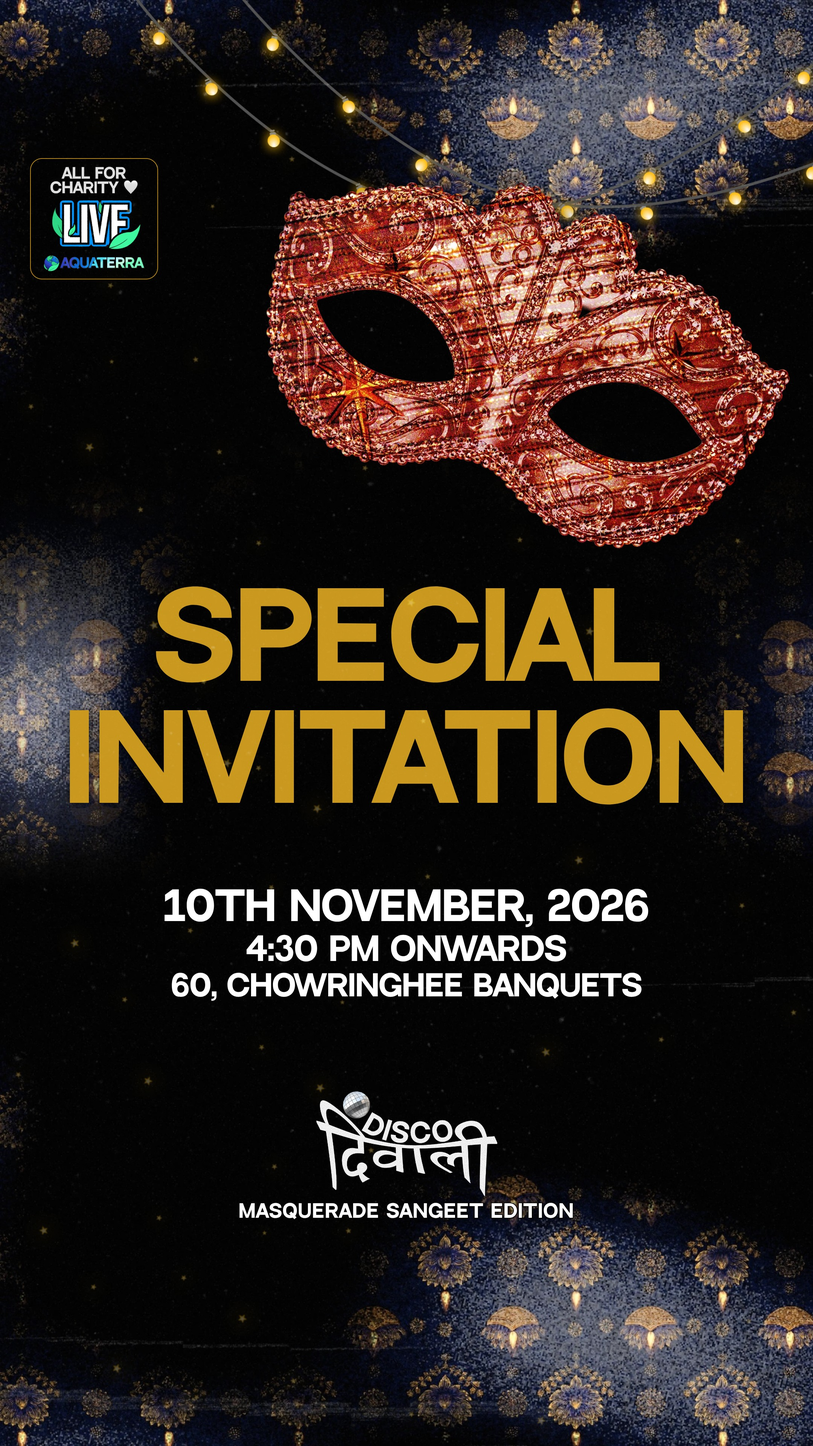
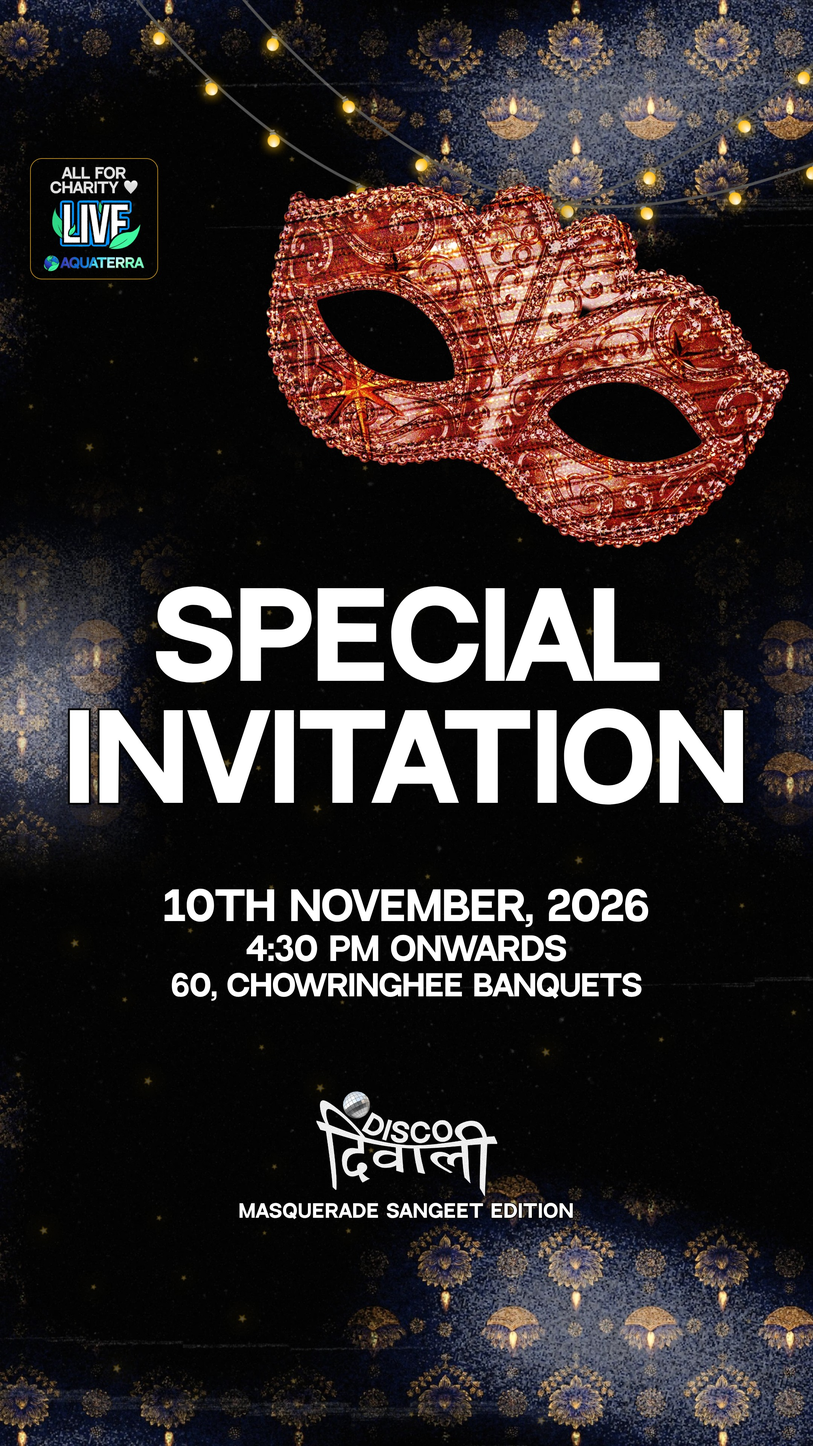
Special invitation poster v10: SPECIAL INVITATION in white
Claude-Session: https://claude.ai/code/session_01Hjb3YdETYzUX9KQBuy3LJ5

Changed region(s): [[0.062, 0.4062, 0.9306, 0.5625]]

diff --git a/scratchpad/dd_invite2.py b/scratchpad/dd_invite2.py
@@ -1,5 +1,5 @@
 """DISCO DIWALI "SPECIAL INVITATION" v2 (user, 2026-11-07: 'SPECIAL INVITATION and Rs.550 highlighted, reduce the Disco Diwali text and place it at the footer').
-The invitation line and the fee are the hero: no box (v7, user 2026-11-07: outline removed), SPECIAL INVITATION in gold, SPECIAL over INVITATION in gold, one size, INVITATION measured to fill the panel (v6, user 2026-11-07: the entry fee is REMOVED, so no price is printed). The date, time and venue sit
+The invitation line and the fee are the hero: no box (v7, user 2026-11-07: outline removed), SPECIAL INVITATION in white (v10, user 2026-11-07), SPECIAL over INVITATION in gold, one size, INVITATION measured to fill the panel (v6, user 2026-11-07: the entry fee is REMOVED, so no price is printed). The date, time and venue sit
 under the panel. The lockup (with ball) is shrunk to a footer mark with the edition line beneath it. Built on the Sign primitives (beaded celestial ground, string lights, LIVE badge,
 copper mask) at feed 1080x1350 and story 1080x1920 (top 200 and bottom 250 clear for Instagram's bars). Supplied facts only: 10th November 2026, 4:30 PM onwards, 60 Chowringhee
 Banquets. Run: PYTHONIOENCODING=utf-8 python scratchpad/dd_invite2.py -> out/discodiwali/invite2/{feed,story}.png"""
@@ -47,8 +47,8 @@ async def build(H):
     zone0, zone1 = (640, 1450) if story else (560, 1140)       # between the mask/badge and the footer mark
     py = zone0 + max(0, (zone1 - zone0 - (ph + gap_pi + info_h)) // 2)
     print(f"   sizes: special {f_sp}, invitation {f_inv}; panel {ph}px at y={py}")
-    y = s.text("invite1", "Special", py + pad, f_sp, color=GOLD, x=px, w=pw)
-    y = s.text("invite2", "Invitation", y + gap, f_inv, color=GOLD, x=px, w=pw)
+    y = s.text("invite1", "Special", py + pad, f_sp, stroke=5, x=px, w=pw)
+    y = s.text("invite2", "Invitation", y + gap, f_inv, stroke=5, x=px, w=pw)
     iy = py + ph + gap_pi
     y = s.text("when", "10th November, 2026", iy, 52 if story else 46, stroke=3) + 10
     y = s.text("clock", "4:30 PM onwards", y, 42 if story else 38, stroke=3) + 8
